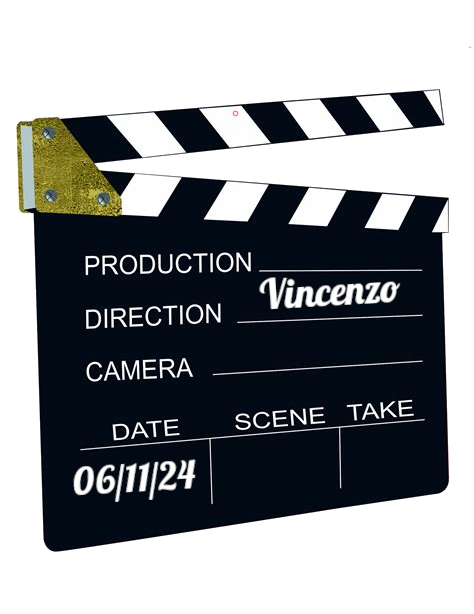
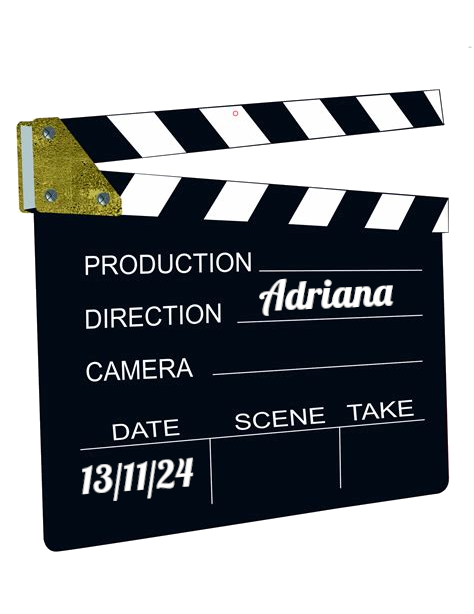
L'innocenza

Changed region(s): [[0.5316, 0.4332, 0.8565, 0.5261], [0.1477, 0.7427, 0.4135, 0.8355]]

diff --git a/index.html b/index.html
@@ -38,12 +38,24 @@
 
 <br /><br /><hr width="90%"><hr width="90%"><br /><br />
 
-<h1>Mercoled&igrave; 6 novembre 2024</h1>
+<h1>Mercoled&igrave; 13 novembre 2024</h1>
 <h2>Alle 20:30 in Via Nizza, 72</h2>
 <img src="img/ciak.png" class="locandina"/>
-<h2>Selezionatore: <i>Vincenzo</i></h2>
+<h2>Selezionatrice: <i>Adriana</i></h2>
 
 <br /><br /><hr width="90%"><hr width="90%"><br /><br />
+
+<h1>Mercoled&igrave; 6 novembre 2024</h1>
+
+<p class="mtitle">
+<a href="https://www.imdb.com/title/tt23736044" target="_blank">L'innocenza</a>
+</p>
+<img src="https://image.tmdb.org/t/p/w500/lCNvxafXD7fBrjBBRyna0iIysCw.jpg" class="locandina"/>
+
+<h2>Selezionatore: <i>Vincenzo</i></h2>
+
+<br /><br /><hr width="90%"><br /><br />
+
 
 <h1>Mercoled&igrave; 30 ottobre 2024</h1>
 

diff --git a/movieslist.html b/movieslist.html
@@ -29,6 +29,17 @@ Rassegnamoci, Cineforum a Programma Variabile - Elenco Film
   </thead>
   <tbody>
     <tr>
+      <td>6-Nov-2024</td>
+      <td>L'innocenza</td>
+      <td>Vincenzo</td>
+      <td>-</td>
+      <td>2023</td>
+      <td>Hirokazu Kore-eda</td>
+      <td>125</td>
+      <td>JP</td>
+      <td><a href="https://www.imdb.com/title/tt23736044" target="_blank">https://www.imdb.com/title/tt23736044</a></td>
+    </tr>
+    <tr>
       <td>30-Ott-2024</td>
       <td>Snatch - Lo strappo</td>
       <td>Francesco</td>
